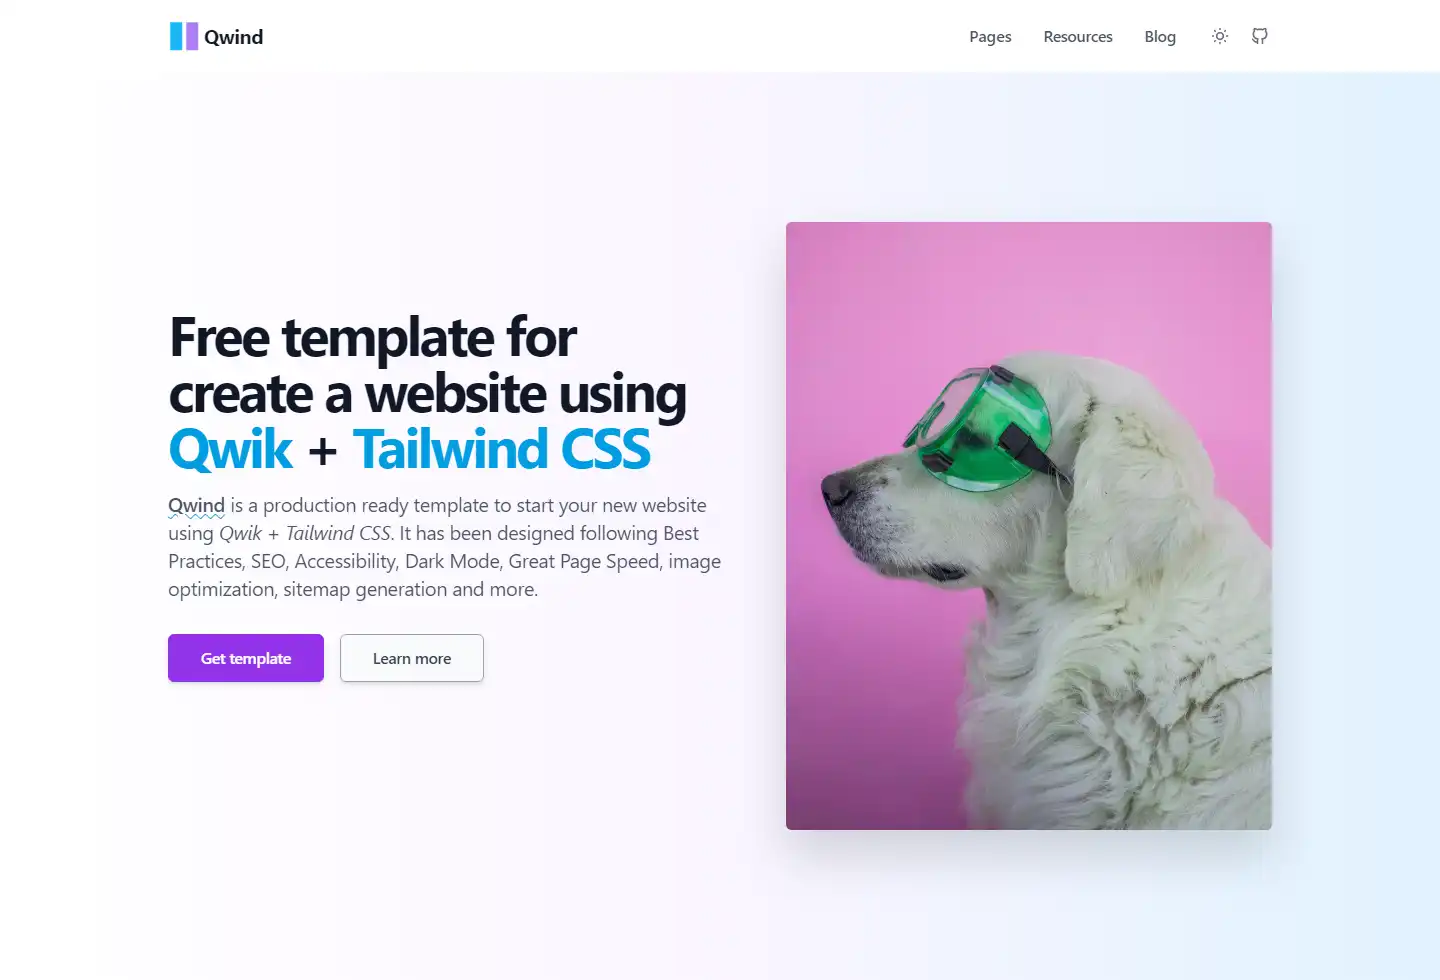
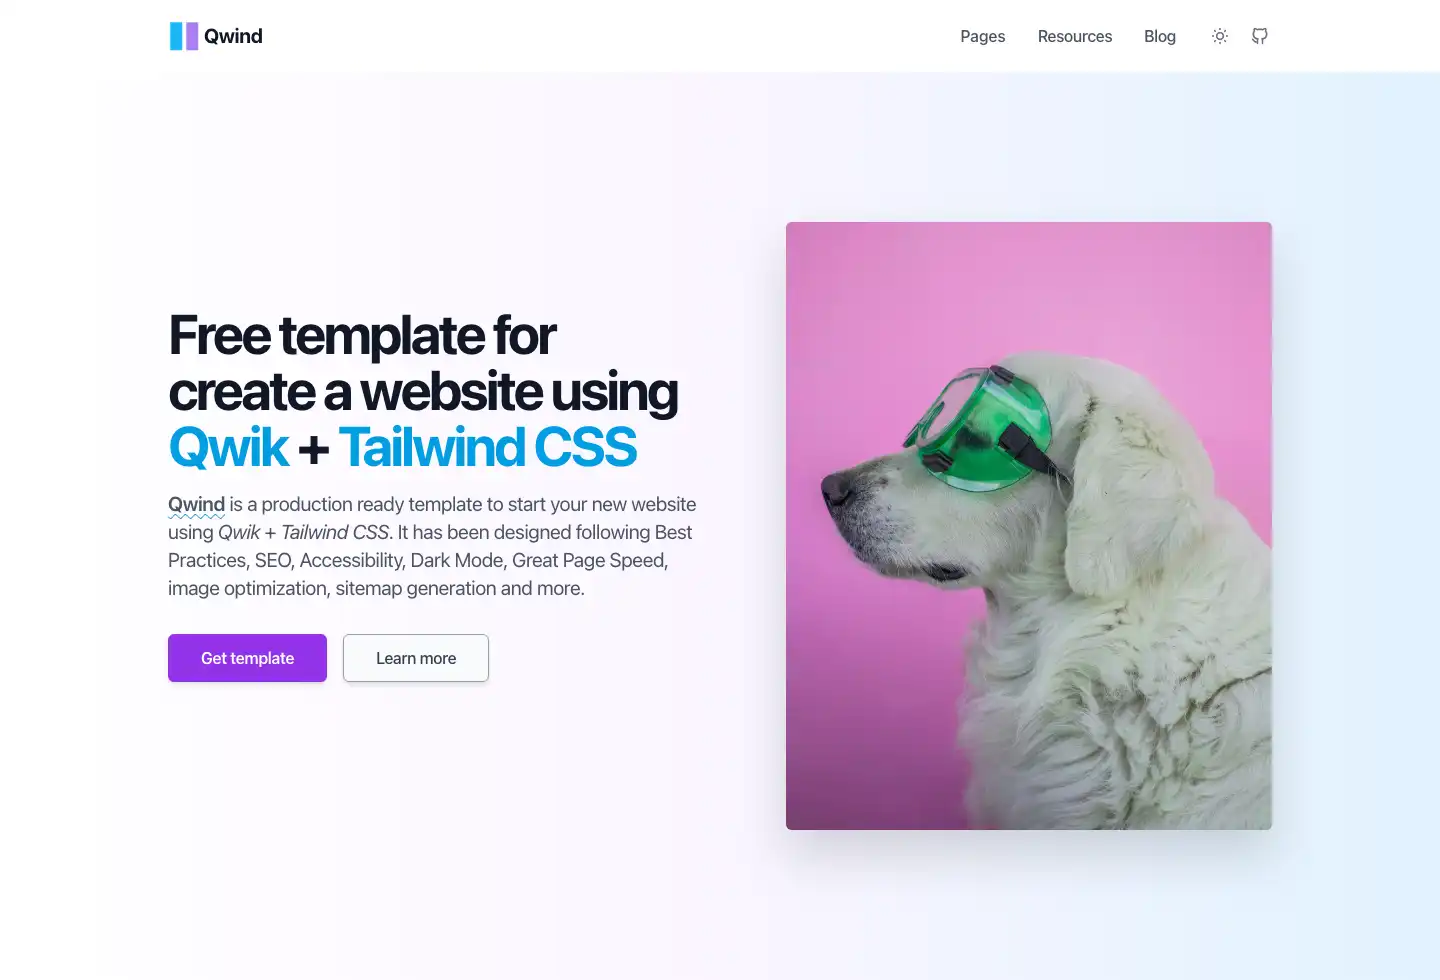
chore: bump to #2369

diff --git a/scripts/showcase.js b/scripts/showcase.js
@@ -18,7 +18,6 @@ async function captureMultipleScreenshots() {
       headless: true,
     });
     const incognito = await browser.createIncognitoBrowserContext();
-
     let existingJson = [];
     try {
       const data = fs.readFileSync(OUTPUT_JSON, 'utf8');
@@ -31,6 +30,9 @@ async function captureMultipleScreenshots() {
       let page;
       try {
         page = await incognito.newPage();
+        page.setUserAgent(
+          'Mozilla/5.0 (Macintosh; Intel Mac OS X 10_15_7) AppleWebKit/537.36 (KHTML, like Gecko) Chrome/108.0.0.0 Safari/537.36'
+        );
 
         // set viewport width and height
         await page.setViewport({
